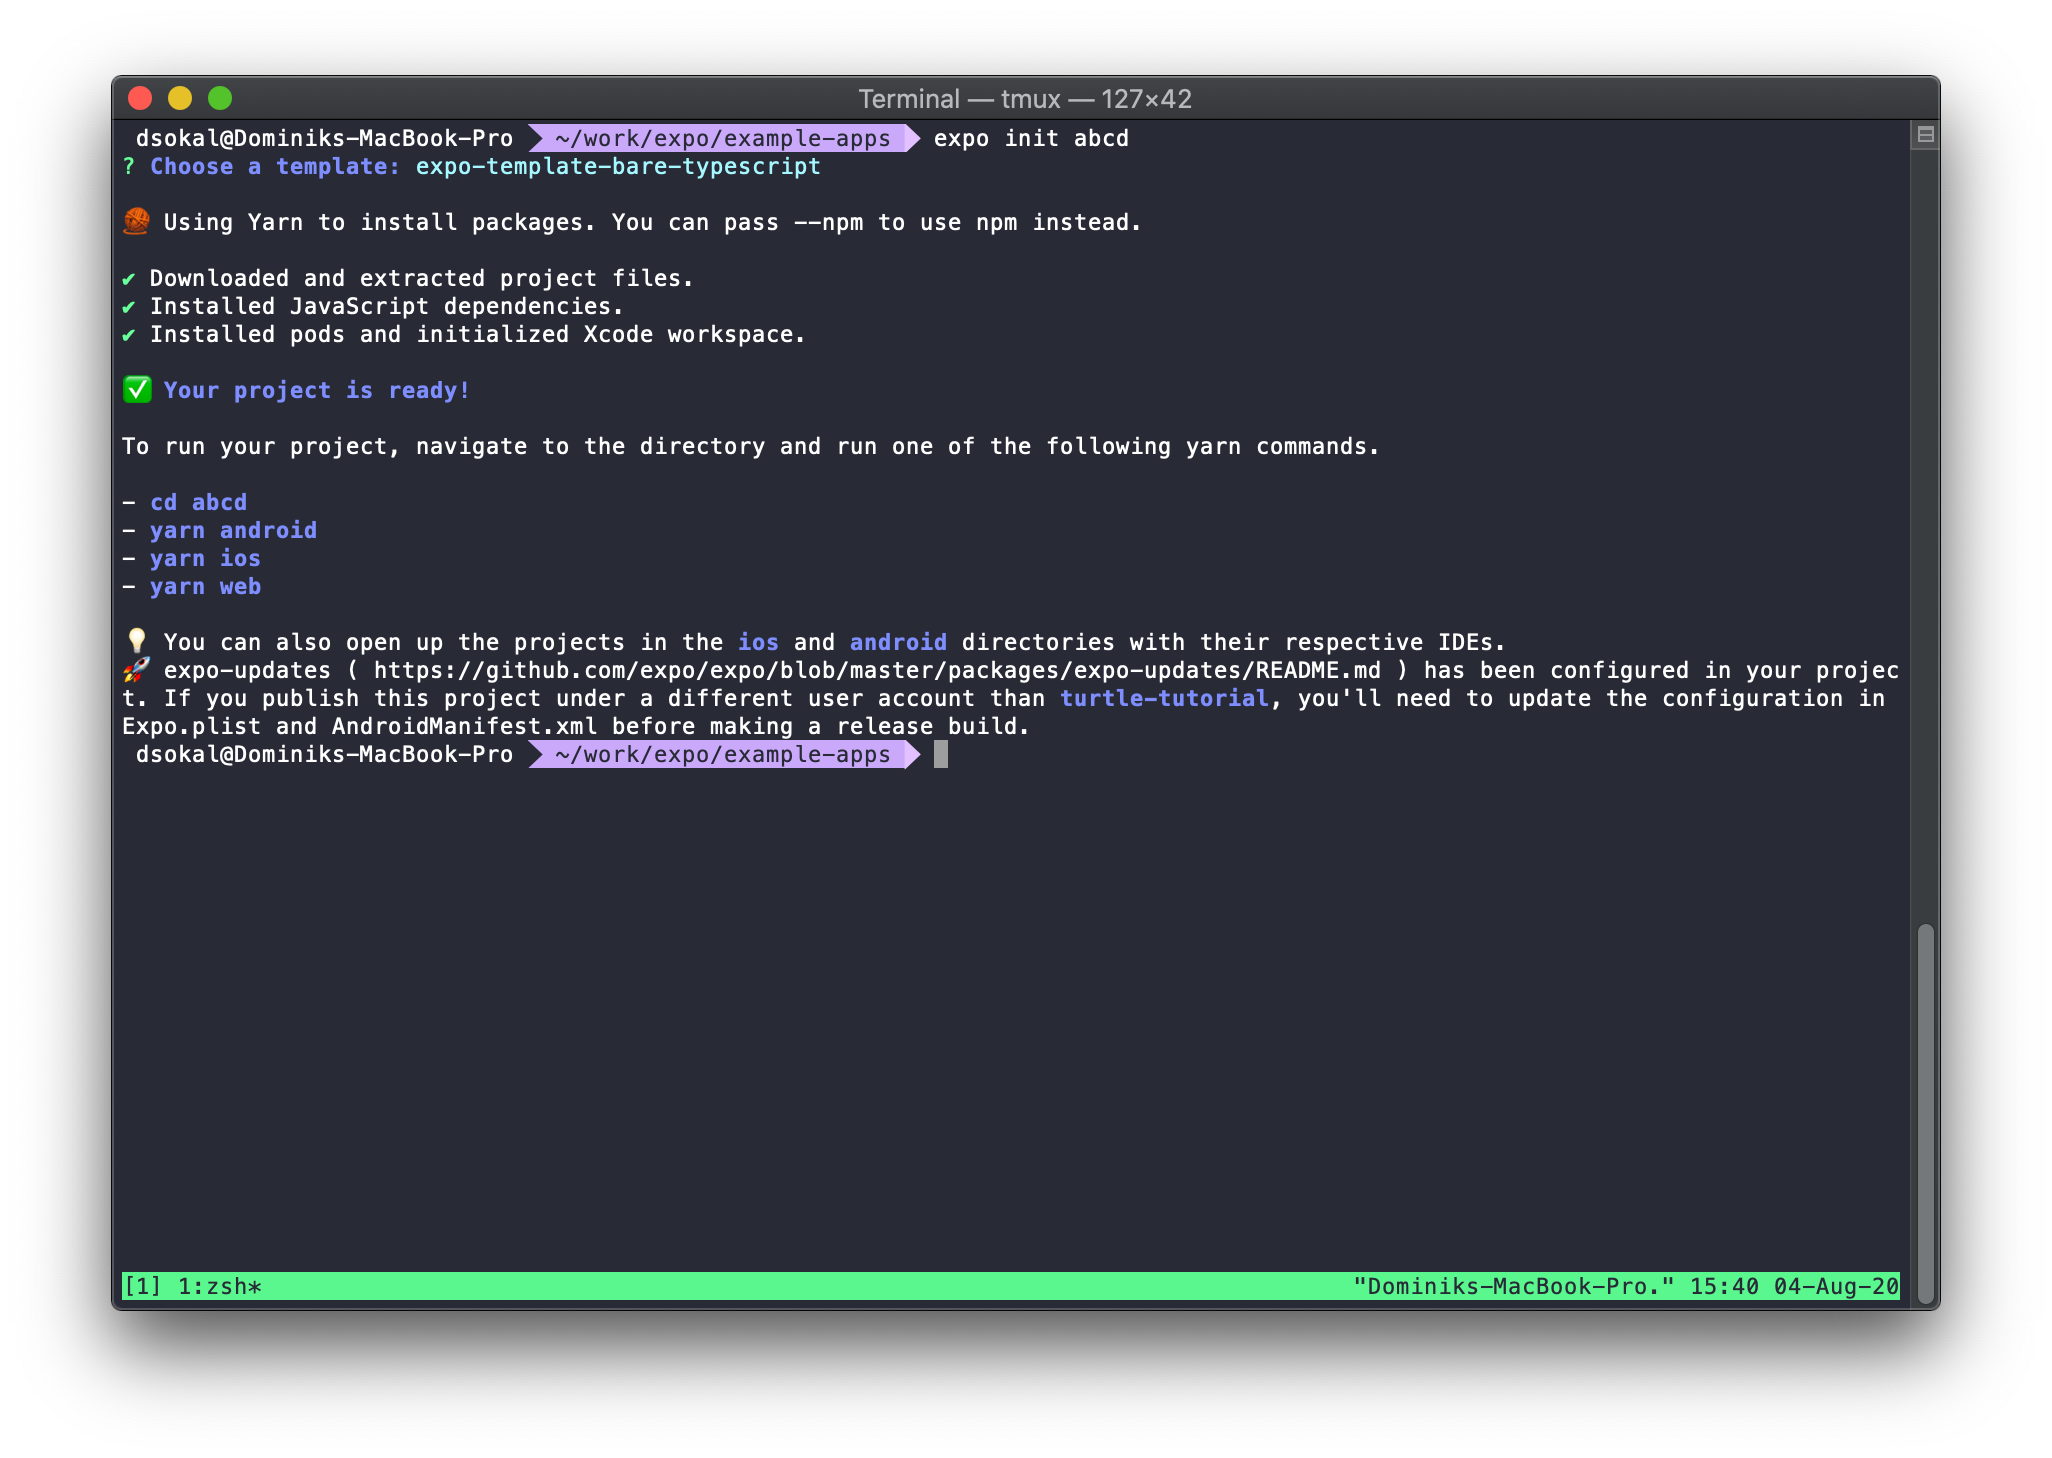
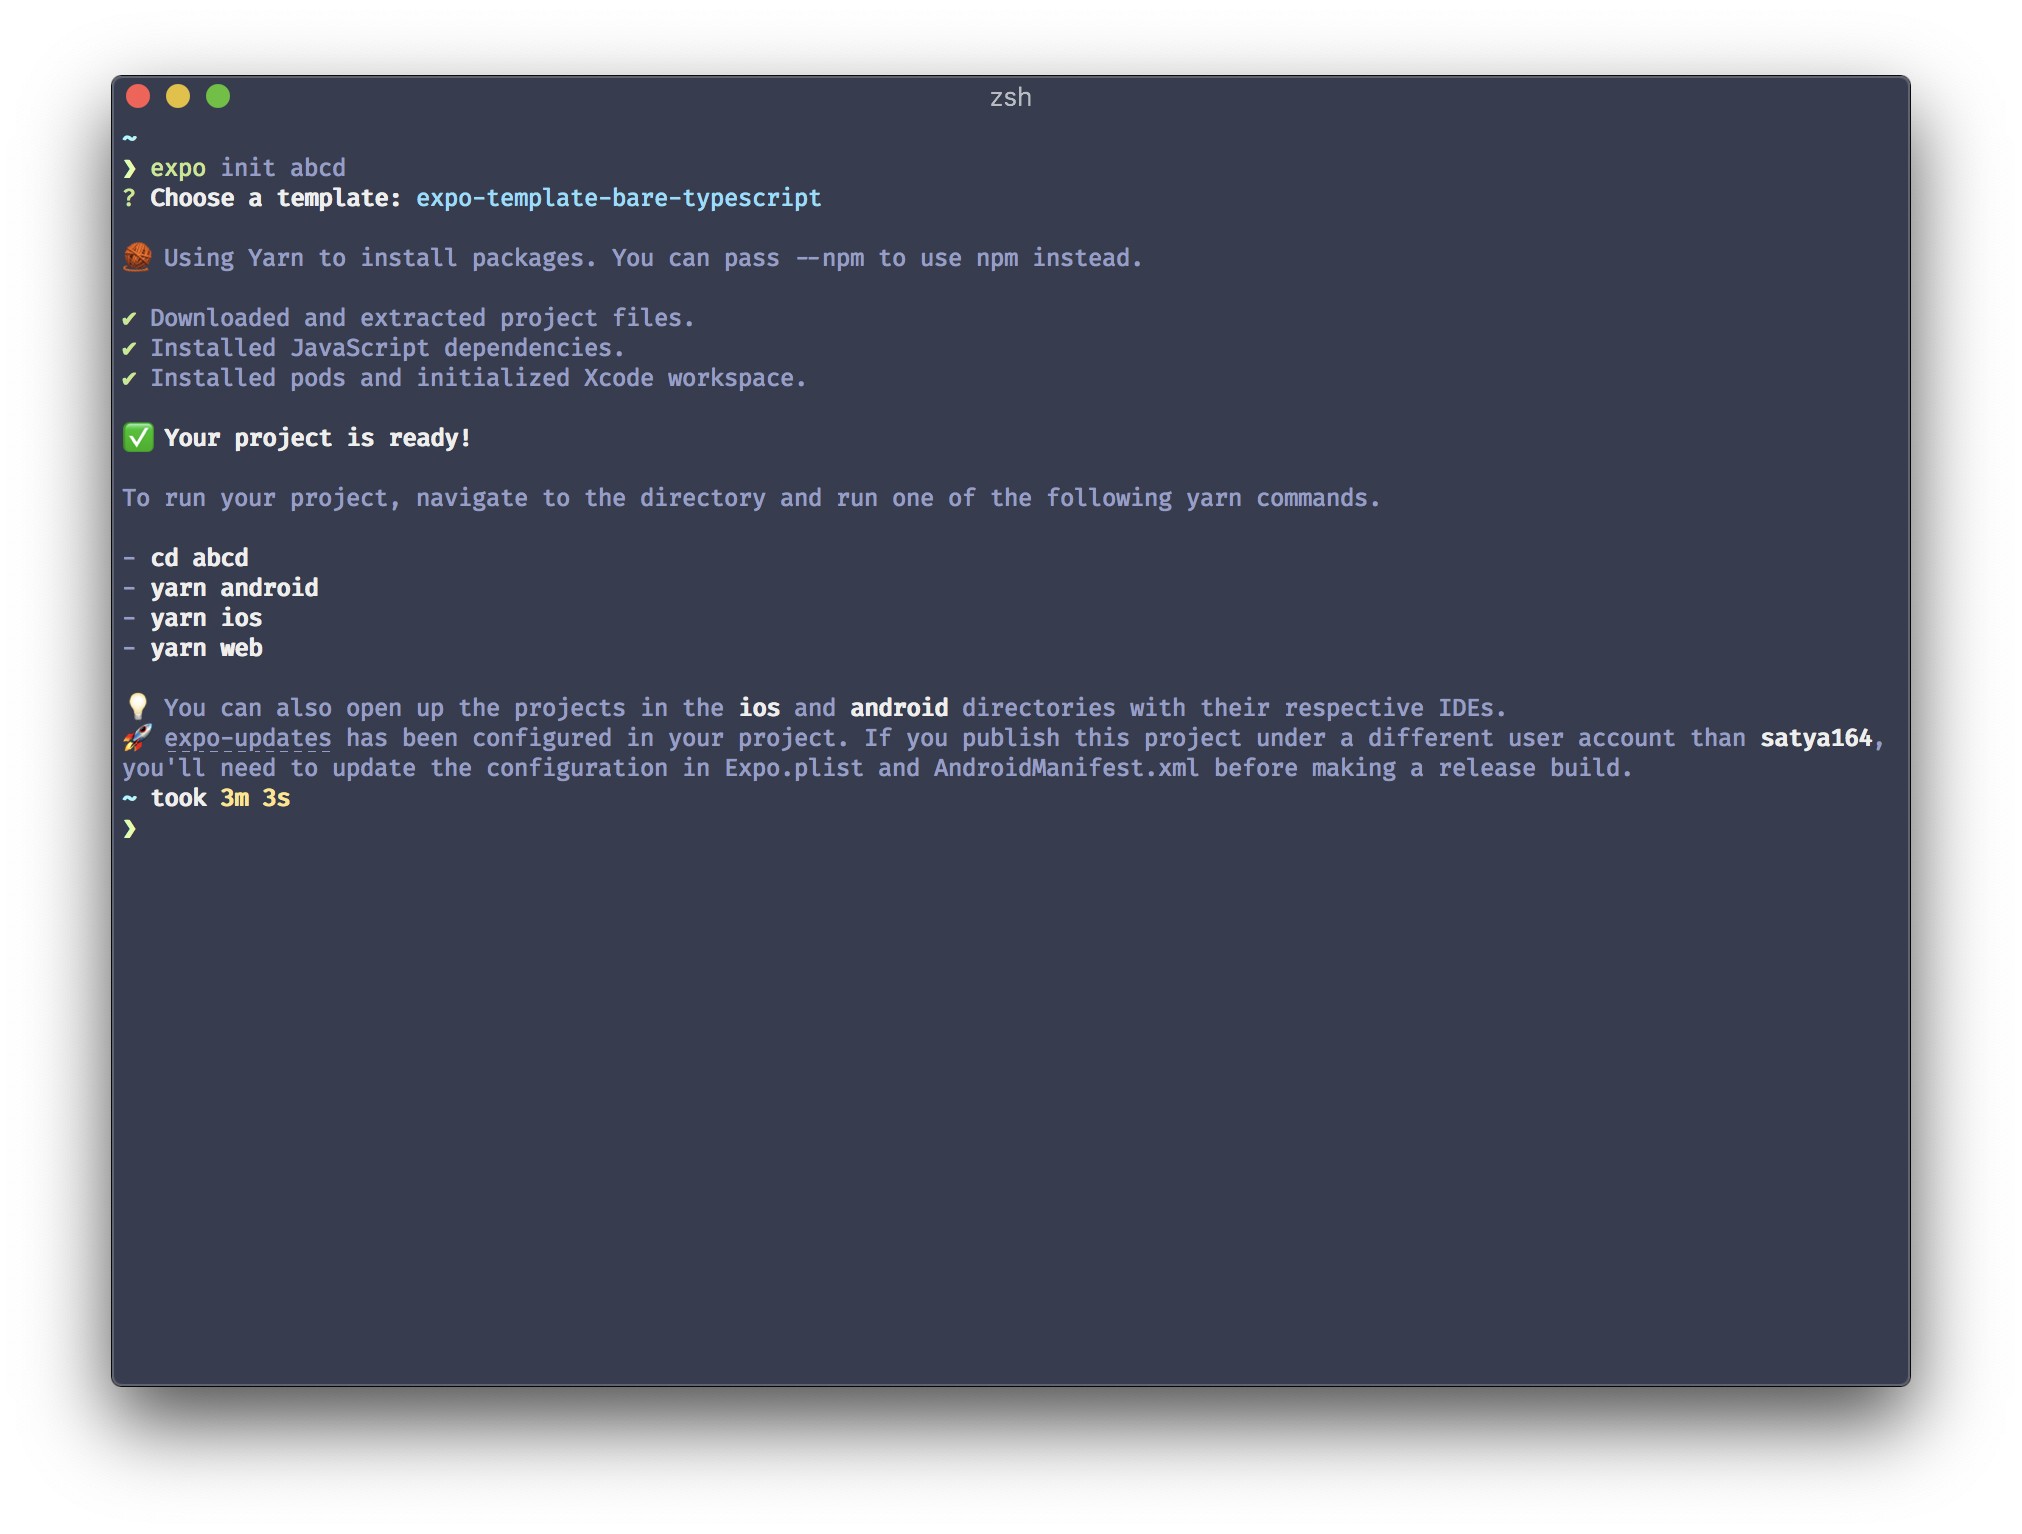
[docs] Update guide for eas builds for the new eas:build:init command (#10005)
* [docs] Update guide for eas builds for the new eas:build:init command

We have added a new eas:build:init command in expo-cli to automatically configure native projects for EAS builds. This PR updates the docs to use the new command.

I have also retaken the screenshots because some things have changed and for consistency.

* Apply suggestions from code review

diff --git a/docs/pages/build/eas-build-in-5-minutes.md b/docs/pages/build/eas-build-in-5-minutes.md
@@ -19,43 +19,38 @@ Initializing the project can take a few minutes. Once it's all set, you should s
 
 <center><img src="/static/images/eas-builds/5-minute-tutorial/02-init-complete.png" /></center>
 
-Expo CLI creates a git repository for you. However, some changes are not commited by default. Go into the project directory, review the changes, and commit them:
+## Set a bundle identifier for iOS
 
-- `cd abcd`
-- `git add .`
-- `git commit -m "Add Podfile.lock, yarn.lock, etc."`
+Before configuring the project for EAS Build, you'll need to set the bundle identifier (`expo.ios.bundleIdentifer`) that will be used to identify your application on the Apple App Store.
 
-<center><img src="/static/images/eas-builds/5-minute-tutorial/03-initial-commit.png" /></center>
+An excerpt from Apple's docs:
 
-## Create eas.json
+> The bundle identifier string identifies your application to the system. This string must be a uniform type identifier (UTI) that contains only alphanumeric (A-Z,a-z,0-9), hyphen (-), and period (.) characters. The string should also be in reverse-DNS format. For example, if your company’s domain is Ajax.com and you create an application named Hello, you could assign the string com.Ajax.Hello as your application’s bundle identifier.
 
-The next step towards building your native project with EAS Build is creating the `eas.json` file in the root directory. It will contain the EAS Build configuration. Create the file with the following contents:
+To set the bundle identifier, open `app.json`, and add a `bundleIdentifier` property under the `expo.ios` key, then commit the change:
 
-```json
-{
-  "builds": {
-    "android": {
-      "release": {
-        "workflow": "generic"
-      }
-    },
-    "ios": {
-      "release": {
-        "workflow": "generic"
-      }
-    }
-  }
-}
+- `git add app.json`
+- `git commit -m "Set bundle identifier"`
+
+<center><img src="/static/images/eas-builds/5-minute-tutorial/06-set-bundle-id.png" /></center>
+
+## Configure your project for EAS Build
+
+To automatically configure your native project for building with EAS Build on Android and iOS, you will need to run the following command:
+
+```sh
+expo eas:build:init
 ```
 
+It will automatically perform the following steps:
+
+### Create `eas.json`
+
+The command will create an `eas.json` file in the root directory, and then you'll be asked to commit it. This file contains your EAS Build configuration.
+
+<center><img src="/static/images/eas-builds/5-minute-tutorial/03-eas-json.png" /></center>
+
 This is a minimal example configuration for Android and iOS builds. It defines a single build profile named `release` (you can have multiple build profiles like `release`, `debug`, `testing`, etc.) for each platform. Each profile declares that the project is a generic React Native project (unlike a managed Expo project which doesn't contain native code in the project tree).
-
-After creating the file, make another commit:
-
-- `git add eas.json`
-- `git commit -m "Add eas.json"`
-
-<center><img src="/static/images/eas-builds/5-minute-tutorial/04-eas-json.png" /></center>
 
 If you want to learn more about `eas.json` see the [Configuration with eas.json](../eas-json/) page.
 
@@ -65,59 +60,48 @@ Once you've created `eas.json`, new Expo CLI commands should become available fo
 - `expo eas:build:status` - displays the status of your latest build for this project
 - `expo eas:credentials:sync` - synchronizes your local credentials.json file and your credentials that Expo has stored on our servers
 
-## Building For Android
+### Configuring Android
 
-Building the Android app binary is simple - just run `expo eas:build --platform android` and you'll be guided through generating or providing your own keystore. For the sake of simplicity in this tutorial, select `Generate new keystore` and hit `ENTER`.
+You will be guided through generating or providing your own keystore. For the sake of simplicity in this tutorial, select `Generate new keystore` and hit `ENTER`.
 
 **Warning: If you've previously set up credentials for an app with the same slug, Expo CLI will try to reuse them.**
 
-<center><img src="/static/images/eas-builds/5-minute-tutorial/05-generate-keystore.png" /></center>
+<center><img src="/static/images/eas-builds/5-minute-tutorial/04-generate-keystore.png" /></center>
 
 Next, Expo CLI will auto-configure you Gradle project so we could build it on our servers. You'll be offered to commit the changes to your repository.
 
-<center><img src="/static/images/eas-builds/5-minute-tutorial/06-configure-gradle.png" /></center>
+<center><img src="/static/images/eas-builds/5-minute-tutorial/05-configure-gradle.png" /></center>
 
-The build should start just after completing those steps. Expo CLI will print a URL to the page where you can monitor the build (and view logs). Open the URL in a browser and you should see a page like this:
+### Configuring iOS
 
-<center><img src="/static/images/eas-builds/5-minute-tutorial/07-build-progress.png" /></center>
-<center><img src="/static/images/eas-builds/5-minute-tutorial/08-build-logs.png" /></center>
+First, you'll be asked which bundle identifier to use. Choose the one defined in `app.json`:
 
-Once the build completes you can download the app binary by either visiting the build status page (and clicking the download button), or by opening the URL printed by Expo CLI:
+<center><img src="/static/images/eas-builds/5-minute-tutorial/07-choose-bundle-id.png" /></center>
 
-<center><img src="/static/images/eas-builds/5-minute-tutorial/09-build-completed-website.png" /></center>
-<center><img src="/static/images/eas-builds/5-minute-tutorial/10-build-completed-cli.png" /></center>
-
-## Building for iOS
-
-### Set the Bundle Identifier
-
-Open `app.json` and set the bundle identifier (`expo.ios.bundleIdentifer`) that will be used to identify your application on the Apple App Store.
-
-An excerpt from Apple's docs:
-
-> The bundle identifier string identifies your application to the system. This string must be a uniform type identifier (UTI) that contains only alphanumeric (A-Z,a-z,0-9), hyphen (-), and period (.) characters. The string should also be in reverse-DNS format. For example, if your company’s domain is Ajax.com and you create an application named Hello, you could assign the string com.Ajax.Hello as your application’s bundle identifier.
-
-After setting the bundle identifier, commit the change:
-
-- `git add app.json`
-- `git commit -m "Set bundle identifier"`
-
-<center><img src="/static/images/eas-builds/5-minute-tutorial/11-set-bundle-id.png" /></center>
-
-### Running the Build
-
-Run `expo eas:build --platform ios` and you'll be guided through generating the app's credentials and configuring your iOS project.
-
-You'll be asked which bundle identifier to use. Choose the one defined in `app.json`:
-
-<center><img src="/static/images/eas-builds/5-minute-tutorial/12-choose-bundle-id.png" /></center>
-
-Follow the next steps (generating credentials and auto-configuring your Xcode project) and you'll be provided with the URL to the build logs page.
+Next, you'll be guided through generating the app's credentials and configuring your iOS project, then you'll be asked to commit the changes.
 
 **Warning: If you've previously set up credentials for an app with the same slug, Expo CLI will try to reuse them.**
 
-<center><img src="/static/images/eas-builds/5-minute-tutorial/13-ios-build-in-progress.png" /></center>
+<center><img src="/static/images/eas-builds/5-minute-tutorial/08-configure-ios.png" /></center>
+
+## Building for Android
+
+Run `expo eas:build --platform android` and Expo CLI will print a URL to the page where you can monitor the build (and view logs). Open the URL in a browser and you should see a page like this:
+
+<center><img src="/static/images/eas-builds/5-minute-tutorial/09-android-build-progress-website.png" /></center>
+<center><img src="/static/images/eas-builds/5-minute-tutorial/10-android-build-logs.png" /></center>
+
+Once the build completes you can download the app binary by either visiting the build status page (and clicking the download button), or by opening the URL printed by Expo CLI:
+
+<center><img src="/static/images/eas-builds/5-minute-tutorial/11-android-build-completed-website.png" /></center>
+<center><img src="/static/images/eas-builds/5-minute-tutorial/12-android-build-completed-cli.png" /></center>
+
+## Building for iOS
+
+Run `expo eas:build --platform ios` and you'll be asked to login to the Apple Developer Portal and choose your team for the iOS project. Then you'll be provided with the URL to the build logs page.
+
+<center><img src="/static/images/eas-builds/5-minute-tutorial/14-ios-build-completed-cli.png" /></center>
 
 Once the build completes you can download the app binary the same way you did with the Android counterpart - either via the build status page or opening the URL that's printed to your console.
 
-<center><img src="/static/images/eas-builds/5-minute-tutorial/14-ios-build-completed.png" /></center>
+<center><img src="/static/images/eas-builds/5-minute-tutorial/13-ios-build-completed-website.png" /></center>

diff --git a/docs/pages/build/android-builds.md b/docs/pages/build/android-builds.md
@@ -56,7 +56,7 @@ Your application's keystore should be kept private. **Under no circumstances sho
 
 ### Configuring Gradle
 
-Let's focus on building a release app binary. Like we previously mentioned, your app binary needs to be signed with the keystore. Because we're building the project on a remote server we had to come up with a way of providing Gradle with the credentials which are not checked in to the repository. When running `expo eas:build --platform android`, we're writing the `android/app/eas-build.gradle` file with the following contents:
+Let's focus on building a release app binary. Like we previously mentioned, your app binary needs to be signed with the keystore. Because we're building the project on a remote server we had to come up with a way of providing Gradle with the credentials which are not checked in to the repository. When running `expo eas:build:init`, we're writing the `android/app/eas-build.gradle` file with the following contents:
 
 ```groovy
 android {
@@ -98,7 +98,7 @@ project.afterEvaluate {
           storeFile rootProject.file("../" + credentials.android.keystore.keystorePath)
           storePassword credentials.android.keystore.keystorePassword
           keyAlias credentials.android.keystore.keyAlias
-          keyPassword credentials.android.keystore.keyPassword /* @end */ 
+          keyPassword credentials.android.keystore.keyPassword /* @end */
         } catch (Exception e) {
           println("An error occurred while parsing 'credentials.json': " + e.message)
         }
